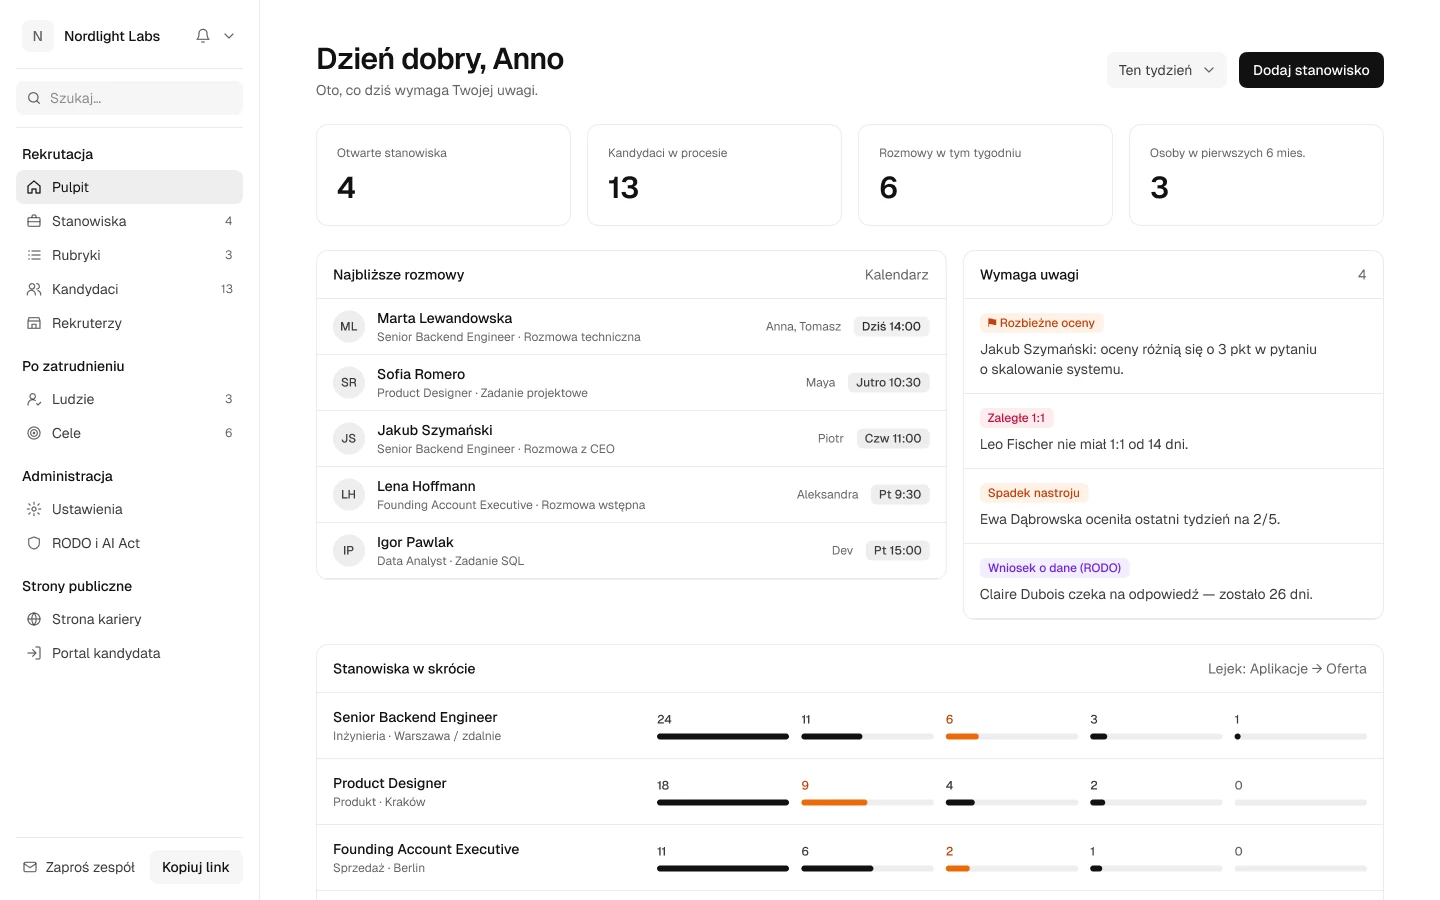
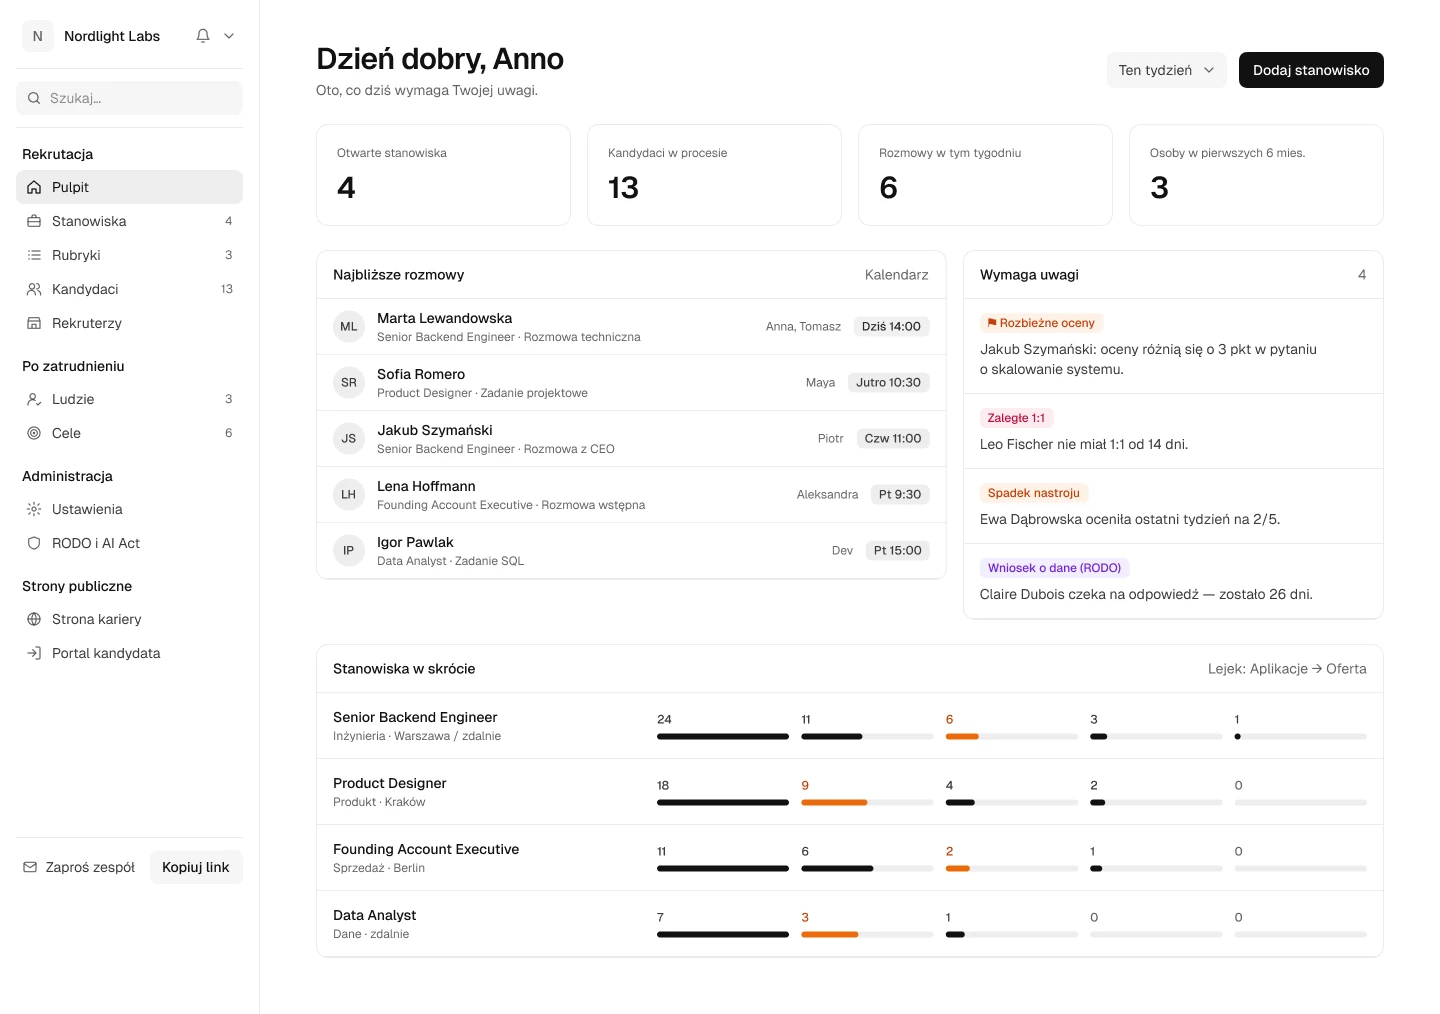
site: pełne ekrany (bez przycinania) w hero i galerii, skalowane proporcjonalnie także na mobile
Claude-Session: https://claude.ai/code/session_011jafF1ujRt61ECkovT2K22

diff --git a/site/index.html b/site/index.html
@@ -149,7 +149,7 @@
               </div>
               <div class="card" style="margin-top:12px">
                 <h5>Stanowiska w skrócie <span>Lejek: Aplikacje → Oferta</span></h5>
-                <div class="fun"><b>Senior Backend Engineer<small>Inżynieria · Warszawa / zdalnie</small></b><div class="bars"><div class="fc"><span>24</span><i style="--v:100;--k:0"></i></div><div class="fc"><span>11</span><i style="--v:46;--k:1"></i></div><div class="fc hot"><span>6</span><i style="--v:25;--k:2"></i></div><div class="fc"><span>3</span><i style="--v:12;--k:3"></i></div><div class="fc"><span>1</span><i style="--v:4;--k:4"></i></div></div></div><div class="fun"><b>Product Designer<small>Produkt · Kraków</small></b><div class="bars"><div class="fc"><span>18</span><i style="--v:100;--k:0"></i></div><div class="fc hot"><span>9</span><i style="--v:50;--k:1"></i></div><div class="fc"><span>4</span><i style="--v:22;--k:2"></i></div><div class="fc"><span>2</span><i style="--v:11;--k:3"></i></div><div class="fc"><span>0</span><i style="--v:0;--k:4"></i></div></div></div><div class="fun"><b>Founding Account Executive<small>Sprzedaż · Berlin</small></b><div class="bars"><div class="fc"><span>11</span><i style="--v:100;--k:0"></i></div><div class="fc"><span>6</span><i style="--v:55;--k:1"></i></div><div class="fc hot"><span>2</span><i style="--v:18;--k:2"></i></div><div class="fc"><span>1</span><i style="--v:9;--k:3"></i></div><div class="fc"><span>0</span><i style="--v:0;--k:4"></i></div></div></div>
+                <div class="fun"><b>Senior Backend Engineer<small>Inżynieria · Warszawa / zdalnie</small></b><div class="bars"><div class="fc"><span>24</span><i style="--v:100;--k:0"></i></div><div class="fc"><span>11</span><i style="--v:46;--k:1"></i></div><div class="fc hot"><span>6</span><i style="--v:25;--k:2"></i></div><div class="fc"><span>3</span><i style="--v:12;--k:3"></i></div><div class="fc"><span>1</span><i style="--v:4;--k:4"></i></div></div></div><div class="fun"><b>Product Designer<small>Produkt · Kraków</small></b><div class="bars"><div class="fc"><span>18</span><i style="--v:100;--k:0"></i></div><div class="fc hot"><span>9</span><i style="--v:50;--k:1"></i></div><div class="fc"><span>4</span><i style="--v:22;--k:2"></i></div><div class="fc"><span>2</span><i style="--v:11;--k:3"></i></div><div class="fc"><span>0</span><i style="--v:0;--k:4"></i></div></div></div><div class="fun"><b>Founding Account Executive<small>Sprzedaż · Berlin</small></b><div class="bars"><div class="fc"><span>11</span><i style="--v:100;--k:0"></i></div><div class="fc"><span>6</span><i style="--v:55;--k:1"></i></div><div class="fc hot"><span>2</span><i style="--v:18;--k:2"></i></div><div class="fc"><span>1</span><i style="--v:9;--k:3"></i></div><div class="fc"><span>0</span><i style="--v:0;--k:4"></i></div></div></div><div class="fun"><b>Data Analyst<small>Dane · zdalnie</small></b><div class="bars"><div class="fc hot"><span>7</span><i style="--v:100;--k:0"></i></div><div class="fc hot"><span>3</span><i style="--v:43;--k:1"></i></div><div class="fc"><span>1</span><i style="--v:14;--k:2"></i></div><div class="fc"><span>0</span><i style="--v:0;--k:3"></i></div><div class="fc"><span>0</span><i style="--v:0;--k:4"></i></div></div></div>
               </div>
             </div>
           </div>
@@ -278,10 +278,10 @@
       <h2>Tak wygląda Tekma <span class="gr">w środku.</span></h2>
       <p class="lede">Prawdziwe ekrany aplikacji, z danymi przykładowymi. Jasne, spokojne, bez zbędnych ozdobników.</p>
     </div>
-    <div class="shots" id="shots" data-shots='[{"src": "assets/screens/dashboard.webp", "t": "Pulpit", "d": "Co dziś wymaga Twojej uwagi — rozbieżne oceny, braki w stanowiskach, liczniki procesu."}, {"src": "assets/screens/positions.webp", "t": "Stanowiska", "d": "Wszystkie rekrutacje w jednym miejscu, z mini-lejkiem i rubryką przypisaną do roli."}, {"src": "assets/screens/pipeline.webp", "t": "Lejek", "d": "Kandydaci w etapach. Przeciągnij kartę albo użyj klawiatury — o ruchu zawsze decydujesz Ty."}, {"src": "assets/screens/candidates.webp", "t": "Kandydaci", "d": "Wspólna baza z wyszukiwaniem, filtrami i dopasowaniem CV jako sugestią AI."}, {"src": "assets/screens/scorecard.webp", "t": "Karta oceny", "d": "Pytania z rubryki, kotwice ocen i sugestie AI z cytatem z rozmowy."}, {"src": "assets/screens/scorecard-diff.webp", "t": "Rozbieżności", "d": "Gdy oceny są rozbieżne, Tekma flaguje to, zanim zapadnie decyzja."}, {"src": "assets/screens/rubrics.webp", "t": "Rubryki", "d": "Pytania, wagi i kotwice w wersjach — ta sama miarka dla każdego kandydata."}]'>
+    <div class="shots" id="shots" data-shots='[{"src": "assets/screens/dashboard.webp", "t": "Pulpit", "d": "Co dziś wymaga Twojej uwagi — rozbieżne oceny, braki w stanowiskach, liczniki procesu.", "w": 1440, "h": 1014}, {"src": "assets/screens/positions.webp", "t": "Stanowiska", "d": "Wszystkie rekrutacje w jednym miejscu, z mini-lejkiem i rubryką przypisaną do roli.", "w": 1440, "h": 900}, {"src": "assets/screens/pipeline.webp", "t": "Lejek", "d": "Kandydaci w etapach. Przeciągnij kartę albo użyj klawiatury — o ruchu zawsze decydujesz Ty.", "w": 1440, "h": 900}, {"src": "assets/screens/candidates.webp", "t": "Kandydaci", "d": "Wspólna baza z wyszukiwaniem, filtrami i dopasowaniem CV jako sugestią AI.", "w": 1440, "h": 900}, {"src": "assets/screens/scorecard.webp", "t": "Karta oceny", "d": "Pytania z rubryki, kotwice ocen i sugestie AI z cytatem z rozmowy.", "w": 1440, "h": 900}, {"src": "assets/screens/scorecard-diff.webp", "t": "Rozbieżności", "d": "Gdy oceny są rozbieżne, Tekma flaguje to, zanim zapadnie decyzja.", "w": 1440, "h": 934}, {"src": "assets/screens/rubrics.webp", "t": "Rubryki", "d": "Pytania, wagi i kotwice w wersjach — ta sama miarka dla każdego kandydata.", "w": 1440, "h": 900}]'>
       <div class="shots-tabs" role="tablist" aria-label="Ekrany aplikacji"><button type="button" role="tab" id="tab-dashboard" aria-selected="true" aria-controls="shot" data-i="0" tabindex="0">Pulpit</button><button type="button" role="tab" id="tab-positions" aria-selected="false" aria-controls="shot" data-i="1" tabindex="-1">Stanowiska</button><button type="button" role="tab" id="tab-pipeline" aria-selected="false" aria-controls="shot" data-i="2" tabindex="-1">Lejek</button><button type="button" role="tab" id="tab-candidates" aria-selected="false" aria-controls="shot" data-i="3" tabindex="-1">Kandydaci</button><button type="button" role="tab" id="tab-scorecard" aria-selected="false" aria-controls="shot" data-i="4" tabindex="-1">Karta oceny</button><button type="button" role="tab" id="tab-scorecard-diff" aria-selected="false" aria-controls="shot" data-i="5" tabindex="-1">Rozbieżności</button><button type="button" role="tab" id="tab-rubrics" aria-selected="false" aria-controls="shot" data-i="6" tabindex="-1">Rubryki</button></div>
       <figure class="shots-stage" id="shot" role="tabpanel" aria-labelledby="tab-dashboard">
-        <div class="shot-frame"><img id="shotImg" src="assets/screens/dashboard.webp" width="1440" height="900" alt="Pulpit Tekma: liczniki procesu i lista spraw wymagających uwagi" loading="lazy"></div>
+        <div class="shot-frame"><img id="shotImg" src="assets/screens/dashboard.webp" width="1440" height="1014" alt="Pulpit Tekma: liczniki procesu i lista spraw wymagających uwagi" loading="lazy"></div>
         <figcaption id="shotCap"><b>Pulpit</b> Co dziś wymaga Twojej uwagi — rozbieżne oceny, braki w stanowiskach, liczniki procesu.</figcaption>
       </figure>
     </div>
@@ -439,6 +439,7 @@
   </div>
 </dialog>
 <script src="assets/access.js" defer></script>
+<script src="assets/fit.js" defer></script>
 <script src="assets/app.js" defer></script>
 <script src="assets/shots.js" defer></script>
 </body>

diff --git a/site/assets/shots.js b/site/assets/shots.js
@@ -6,7 +6,7 @@
     tabs.forEach((t, j) => { t.setAttribute('aria-selected', j === i); t.tabIndex = j === i ? 0 : -1; });
     panel.setAttribute('aria-labelledby', tabs[i].id);
     img.classList.add('swap');
-    const next = new Image(); next.onload = next.onerror = () => { img.src = data[i].src; img.alt = data[i].t + ' — ekran aplikacji Tekma'; cap.innerHTML = ''; const b = document.createElement('b'); b.textContent = data[i].t; cap.append(b, data[i].d); img.classList.remove('swap'); };
+    const next = new Image(); next.onload = next.onerror = () => { img.src = data[i].src; if (data[i].w) { img.width = data[i].w; img.height = data[i].h; } img.alt = data[i].t + ' — ekran aplikacji Tekma'; cap.innerHTML = ''; const b = document.createElement('b'); b.textContent = data[i].t; cap.append(b, data[i].d); img.classList.remove('swap'); };
     next.src = data[i].src;
     if (focus) tabs[i].focus();
   };

diff --git a/site/assets/fit.js b/site/assets/fit.js
@@ -1,0 +1,19 @@
+/* Okno aplikacji w hero zawsze pokazuje cały ekran desktop — na węższych szerokościach skaluje go proporcjonalnie. */
+(() => {
+  const tilt = document.getElementById('tilt'); if (!tilt) return;
+  const win = tilt.querySelector('.win'); if (!win) return;
+  const BASE = 1200;
+  const fit = () => {
+    const w = tilt.parentElement.clientWidth;
+    const s = Math.min(1, w / BASE);
+    win.style.width = BASE + 'px';
+    win.style.transformOrigin = '0 0';
+    win.style.transform = s < 1 ? 'scale(' + s.toFixed(4) + ')' : '';
+    tilt.style.height = s < 1 ? Math.ceil(win.offsetHeight * s) + 'px' : '';
+    tilt.style.width = s < 1 ? '100%' : '';
+    tilt.classList.toggle('fitted', s < 1);
+  };
+  fit();
+  if ('ResizeObserver' in window) new ResizeObserver(fit).observe(tilt.parentElement); else addEventListener('resize', fit);
+  addEventListener('load', fit);
+})();

diff --git a/site/assets/styles.css b/site/assets/styles.css
@@ -542,3 +542,11 @@ section{position:relative}
 .plan-card.pro{background:linear-gradient(180deg,#1a1018,#0a0a0a 55%);box-shadow:none}
 .plan-card.pro:hover{background:linear-gradient(180deg,#201220,#0f0f0f 55%)}
 @media (max-width:900px){.prices,.bento{border-radius:20px}}
+
+/* pełny ekran desktop w hero: bez przycinania i bez mgły na dole; na wąskich ekranach skalowany proporcjonalnie (fit.js) */
+.stage::after{display:none}
+#tilt .app{grid-template-columns:232px 1fr!important}
+#tilt .side{display:flex!important}
+#tilt.fitted{overflow:visible}
+#tilt.fitted .win{max-width:none}
+.stage{margin-bottom:8px}
